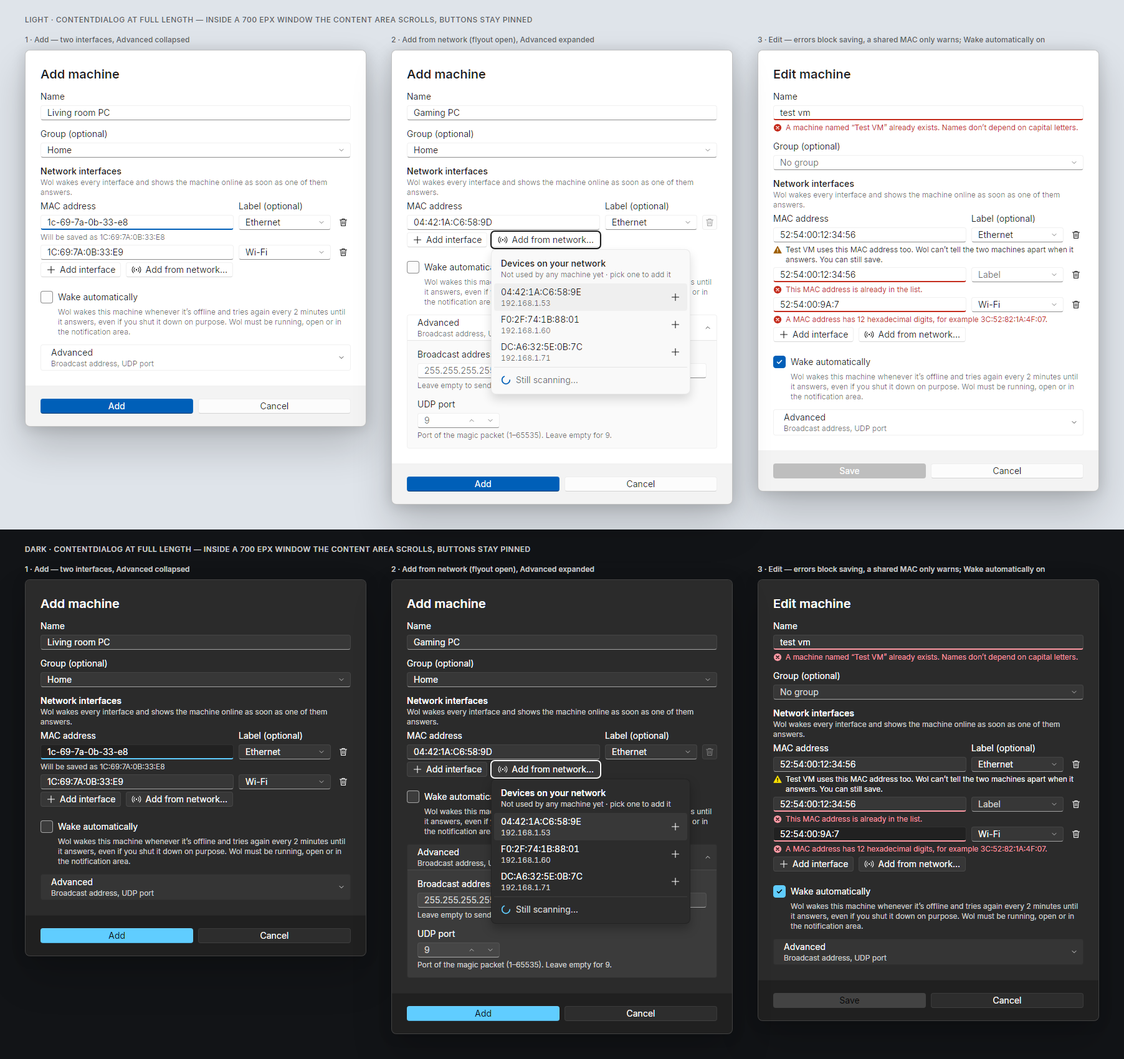
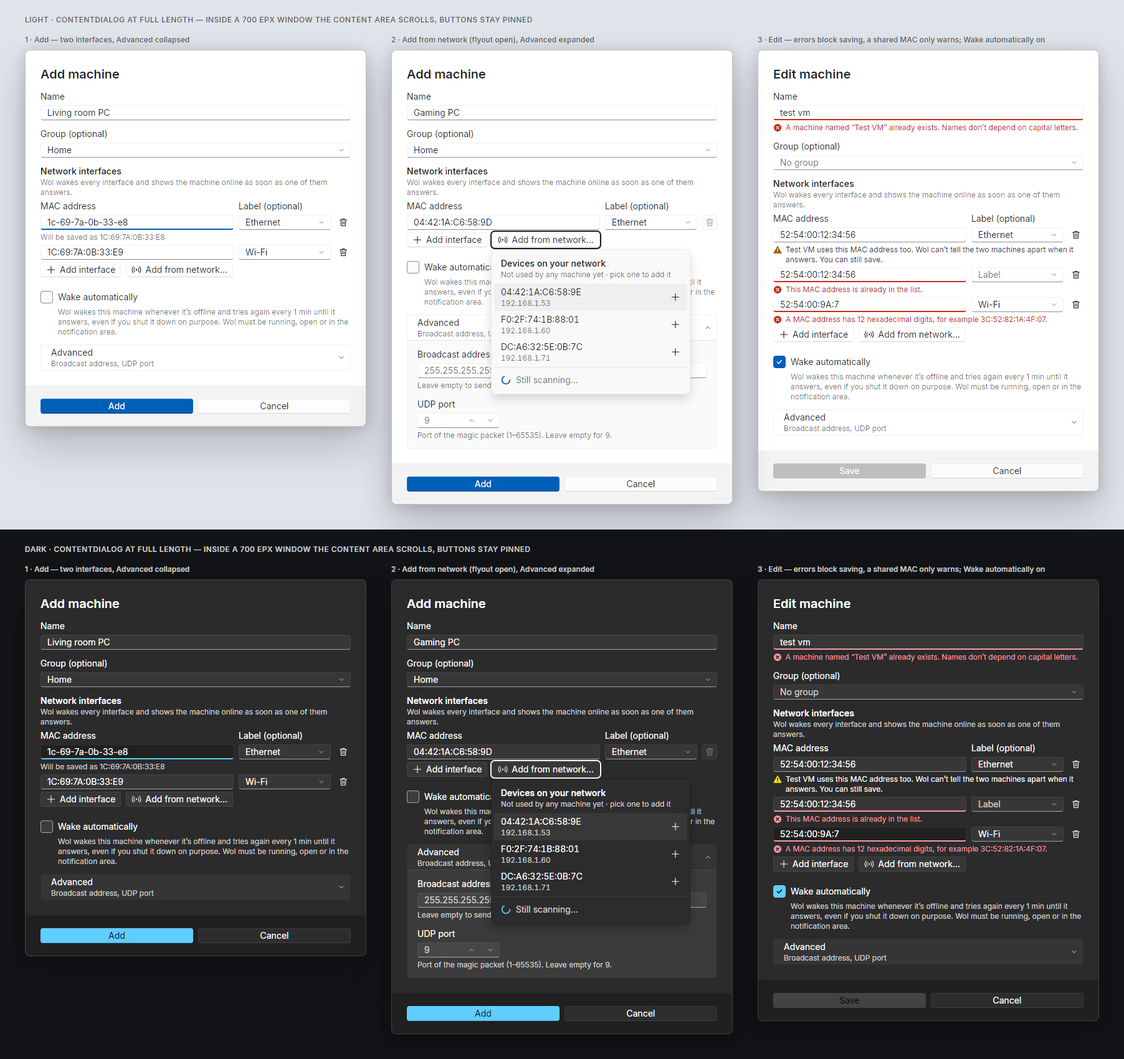
Design the shorter auto-wake retry
The design shows the retry delay of automatic wake-ups as "1 min" (it
follows the check interval) and the start of an automatic wake-up as
always shown, whatever the notification settings.

diff --git a/design/html/09-add-edit-machine.html b/design/html/09-add-edit-machine.html
@@ -48,7 +48,7 @@ a{color:#005fb8}a:hover{color:#003e92}
         </div>
         <div class="fld" style="gap: 0; margin-top: 4px">
           <label class="chk" style="min-height: 32px"><input class="sr" type="checkbox" aria-describedby="aw1-light"><span class="cb" aria-hidden="true"><svg viewbox="0 0 12 12"><path d=""></path></svg></span><span>Wake automatically</span></label>
-          <span class="help" id="aw1-light" style="padding-left: 28px">Wol wakes this machine whenever it’s offline and tries again every 2 minutes until it answers, even if you shut it down on purpose. Wol must be running, open or in the notification area.</span>
+          <span class="help" id="aw1-light" style="padding-left: 28px">Wol wakes this machine whenever it’s offline and tries again every 1 min until it answers, even if you shut it down on purpose. Wol must be running, open or in the notification area.</span>
         </div>
         <div class="exp">
           <button class="exp-h" aria-expanded="false"><span class="sc-tx"><span>Advanced</span><span class="sc-d">Broadcast address, UDP port</span></span><svg class="ic s12" viewbox="0 0 16 16" aria-hidden="true"><path d="M4 6l4 4 4-4"></path></svg></button>
@@ -89,7 +89,7 @@ a{color:#005fb8}a:hover{color:#003e92}
         </div>
         <div class="fld" style="gap: 0; margin-top: 4px">
           <label class="chk" style="min-height: 32px"><input class="sr" type="checkbox" aria-describedby="aw2-light"><span class="cb" aria-hidden="true"><svg viewbox="0 0 12 12"><path d=""></path></svg></span><span>Wake automatically</span></label>
-          <span class="help" id="aw2-light" style="padding-left: 28px">Wol wakes this machine whenever it’s offline and tries again every 2 minutes until it answers, even if you shut it down on purpose. Wol must be running, open or in the notification area.</span>
+          <span class="help" id="aw2-light" style="padding-left: 28px">Wol wakes this machine whenever it’s offline and tries again every 1 min until it answers, even if you shut it down on purpose. Wol must be running, open or in the notification area.</span>
         </div>
         <div class="exp">
           <button class="exp-h" aria-expanded="true"><span class="sc-tx"><span>Advanced</span><span class="sc-d">Broadcast address, UDP port</span></span><svg class="ic s12" viewbox="0 0 16 16" aria-hidden="true"><path d="M4 10l4-4 4 4"></path></svg></button>
@@ -164,7 +164,7 @@ a{color:#005fb8}a:hover{color:#003e92}
         </div>
         <div class="fld" style="gap: 0; margin-top: 4px">
           <label class="chk" style="min-height: 32px"><input class="sr" type="checkbox" checked aria-describedby="aw3-light"><span class="cb on" aria-hidden="true"><svg viewbox="0 0 12 12"><path d="M2.5 6.2l2.3 2.3 4.7-5"></path></svg></span><span>Wake automatically</span></label>
-          <span class="help" id="aw3-light" style="padding-left: 28px">Wol wakes this machine whenever it’s offline and tries again every 2 minutes until it answers, even if you shut it down on purpose. Wol must be running, open or in the notification area.</span>
+          <span class="help" id="aw3-light" style="padding-left: 28px">Wol wakes this machine whenever it’s offline and tries again every 1 min until it answers, even if you shut it down on purpose. Wol must be running, open or in the notification area.</span>
         </div>
         <div class="exp">
           <button class="exp-h" aria-expanded="false"><span class="sc-tx"><span>Advanced</span><span class="sc-d">Broadcast address, UDP port</span></span><svg class="ic s12" viewbox="0 0 16 16" aria-hidden="true"><path d="M4 6l4 4 4-4"></path></svg></button>
@@ -216,7 +216,7 @@ a{color:#005fb8}a:hover{color:#003e92}
         </div>
         <div class="fld" style="gap: 0; margin-top: 4px">
           <label class="chk" style="min-height: 32px"><input class="sr" type="checkbox" aria-describedby="aw1-dark"><span class="cb" aria-hidden="true"><svg viewbox="0 0 12 12"><path d=""></path></svg></span><span>Wake automatically</span></label>
-          <span class="help" id="aw1-dark" style="padding-left: 28px">Wol wakes this machine whenever it’s offline and tries again every 2 minutes until it answers, even if you shut it down on purpose. Wol must be running, open or in the notification area.</span>
+          <span class="help" id="aw1-dark" style="padding-left: 28px">Wol wakes this machine whenever it’s offline and tries again every 1 min until it answers, even if you shut it down on purpose. Wol must be running, open or in the notification area.</span>
         </div>
         <div class="exp">
           <button class="exp-h" aria-expanded="false"><span class="sc-tx"><span>Advanced</span><span class="sc-d">Broadcast address, UDP port</span></span><svg class="ic s12" viewbox="0 0 16 16" aria-hidden="true"><path d="M4 6l4 4 4-4"></path></svg></button>
@@ -257,7 +257,7 @@ a{color:#005fb8}a:hover{color:#003e92}
         </div>
         <div class="fld" style="gap: 0; margin-top: 4px">
           <label class="chk" style="min-height: 32px"><input class="sr" type="checkbox" aria-describedby="aw2-dark"><span class="cb" aria-hidden="true"><svg viewbox="0 0 12 12"><path d=""></path></svg></span><span>Wake automatically</span></label>
-          <span class="help" id="aw2-dark" style="padding-left: 28px">Wol wakes this machine whenever it’s offline and tries again every 2 minutes until it answers, even if you shut it down on purpose. Wol must be running, open or in the notification area.</span>
+          <span class="help" id="aw2-dark" style="padding-left: 28px">Wol wakes this machine whenever it’s offline and tries again every 1 min until it answers, even if you shut it down on purpose. Wol must be running, open or in the notification area.</span>
         </div>
         <div class="exp">
           <button class="exp-h" aria-expanded="true"><span class="sc-tx"><span>Advanced</span><span class="sc-d">Broadcast address, UDP port</span></span><svg class="ic s12" viewbox="0 0 16 16" aria-hidden="true"><path d="M4 10l4-4 4 4"></path></svg></button>
@@ -332,7 +332,7 @@ a{color:#005fb8}a:hover{color:#003e92}
         </div>
         <div class="fld" style="gap: 0; margin-top: 4px">
           <label class="chk" style="min-height: 32px"><input class="sr" type="checkbox" checked aria-describedby="aw3-dark"><span class="cb on" aria-hidden="true"><svg viewbox="0 0 12 12"><path d="M2.5 6.2l2.3 2.3 4.7-5"></path></svg></span><span>Wake automatically</span></label>
-          <span class="help" id="aw3-dark" style="padding-left: 28px">Wol wakes this machine whenever it’s offline and tries again every 2 minutes until it answers, even if you shut it down on purpose. Wol must be running, open or in the notification area.</span>
+          <span class="help" id="aw3-dark" style="padding-left: 28px">Wol wakes this machine whenever it’s offline and tries again every 1 min until it answers, even if you shut it down on purpose. Wol must be running, open or in the notification area.</span>
         </div>
         <div class="exp">
           <button class="exp-h" aria-expanded="false"><span class="sc-tx"><span>Advanced</span><span class="sc-d">Broadcast address, UDP port</span></span><svg class="ic s12" viewbox="0 0 16 16" aria-hidden="true"><path d="M4 6l4 4 4-4"></path></svg></button>

diff --git a/design/html/13-notification-area.html b/design/html/13-notification-area.html
@@ -100,13 +100,13 @@ a{color:#005fb8}a:hover{color:#003e92}
   <div style="display: flex; gap: 8px; align-items: flex-start">
     <div role="status" style="width: 364px; box-sizing: border-box; padding: 12px 16px 16px; border-radius: 8px; background: var(--flyout); border: 1px solid var(--flyout-stroke); box-shadow: 0 8px 16px rgba(0,0,0,.14); display: flex; flex-direction: column; gap: 8px; flex: none">
       <div style="display: flex; align-items: center; gap: 8px; font-size: 12px; line-height: 16px"><svg width="16" height="16" viewbox="0 0 16 16" aria-hidden="true"><rect x="0.5" y="0.5" width="15" height="15" rx="3.5" fill="#0067c0"></rect><path d="M8 3.6v4.1M5.3 5.3a3.8 3.8 0 1 0 5.4 0" fill="none" stroke="#fff" stroke-width="1.5" stroke-linecap="round"></path></svg><span>Wol</span></div>
-      <div style="display: flex; flex-direction: column"><span style="font-weight: 600">Waking Backup server automatically</span><span style="color: var(--text2)">It’s offline. Wol tries again every 2 minutes until it answers.</span></div>
+      <div style="display: flex; flex-direction: column"><span style="font-weight: 600">Waking Backup server automatically</span><span style="color: var(--text2)">It’s offline. Wol tries again every 1 min until it answers.</span></div>
     </div>
     <div role="status" style="width: 364px; box-sizing: border-box; padding: 12px 16px 16px; border-radius: 8px; background: var(--flyout); border: 1px solid var(--flyout-stroke); box-shadow: 0 8px 16px rgba(0,0,0,.14); display: flex; flex-direction: column; gap: 8px; flex: none">
       <div style="display: flex; align-items: center; gap: 8px; font-size: 12px; line-height: 16px"><svg width="16" height="16" viewbox="0 0 16 16" aria-hidden="true"><rect x="0.5" y="0.5" width="15" height="15" rx="3.5" fill="#0067c0"></rect><path d="M8 3.6v4.1M5.3 5.3a3.8 3.8 0 1 0 5.4 0" fill="none" stroke="#fff" stroke-width="1.5" stroke-linecap="round"></path></svg><span>Wol</span></div>
-      <div style="display: flex; flex-direction: column"><span style="font-weight: 600">Backup server is still offline</span><span style="color: var(--text2)">No reply after 2 min. Wol keeps trying every 2 minutes.</span></div>
+      <div style="display: flex; flex-direction: column"><span style="font-weight: 600">Backup server is still offline</span><span style="color: var(--text2)">No reply after 2 min. Wol keeps trying every 1 min.</span></div>
     </div>
-    <span class="help" style="padding-left: 8px">Once it answers: “Backup server is online”, “Woken automatically after 1 min 12 s.” Each balloon follows its Notifications setting — Goes offline, Doesn’t wake up, Comes online. Retries notify nothing.</span>
+    <span class="help" style="padding-left: 8px">Once it answers: “Backup server is online”, “Woken automatically after 1 min 12 s.” The first balloon shows whenever Notifications is on; the others follow their setting — Doesn’t wake up, Comes online. Retries notify nothing.</span>
   </div>
 </div>
 </div>
@@ -199,13 +199,13 @@ a{color:#005fb8}a:hover{color:#003e92}
   <div style="display: flex; gap: 8px; align-items: flex-start">
     <div role="status" style="width: 364px; box-sizing: border-box; padding: 12px 16px 16px; border-radius: 8px; background: var(--flyout); border: 1px solid var(--flyout-stroke); box-shadow: 0 8px 16px rgba(0,0,0,.14); display: flex; flex-direction: column; gap: 8px; flex: none">
       <div style="display: flex; align-items: center; gap: 8px; font-size: 12px; line-height: 16px"><svg width="16" height="16" viewbox="0 0 16 16" aria-hidden="true"><rect x="0.5" y="0.5" width="15" height="15" rx="3.5" fill="#0067c0"></rect><path d="M8 3.6v4.1M5.3 5.3a3.8 3.8 0 1 0 5.4 0" fill="none" stroke="#fff" stroke-width="1.5" stroke-linecap="round"></path></svg><span>Wol</span></div>
-      <div style="display: flex; flex-direction: column"><span style="font-weight: 600">Waking Backup server automatically</span><span style="color: var(--text2)">It’s offline. Wol tries again every 2 minutes until it answers.</span></div>
+      <div style="display: flex; flex-direction: column"><span style="font-weight: 600">Waking Backup server automatically</span><span style="color: var(--text2)">It’s offline. Wol tries again every 1 min until it answers.</span></div>
     </div>
     <div role="status" style="width: 364px; box-sizing: border-box; padding: 12px 16px 16px; border-radius: 8px; background: var(--flyout); border: 1px solid var(--flyout-stroke); box-shadow: 0 8px 16px rgba(0,0,0,.14); display: flex; flex-direction: column; gap: 8px; flex: none">
       <div style="display: flex; align-items: center; gap: 8px; font-size: 12px; line-height: 16px"><svg width="16" height="16" viewbox="0 0 16 16" aria-hidden="true"><rect x="0.5" y="0.5" width="15" height="15" rx="3.5" fill="#0067c0"></rect><path d="M8 3.6v4.1M5.3 5.3a3.8 3.8 0 1 0 5.4 0" fill="none" stroke="#fff" stroke-width="1.5" stroke-linecap="round"></path></svg><span>Wol</span></div>
-      <div style="display: flex; flex-direction: column"><span style="font-weight: 600">Backup server is still offline</span><span style="color: var(--text2)">No reply after 2 min. Wol keeps trying every 2 minutes.</span></div>
+      <div style="display: flex; flex-direction: column"><span style="font-weight: 600">Backup server is still offline</span><span style="color: var(--text2)">No reply after 2 min. Wol keeps trying every 1 min.</span></div>
     </div>
-    <span class="help" style="padding-left: 8px">Once it answers: “Backup server is online”, “Woken automatically after 1 min 12 s.” Each balloon follows its Notifications setting — Goes offline, Doesn’t wake up, Comes online. Retries notify nothing.</span>
+    <span class="help" style="padding-left: 8px">Once it answers: “Backup server is online”, “Woken automatically after 1 min 12 s.” The first balloon shows whenever Notifications is on; the others follow their setting — Doesn’t wake up, Comes online. Retries notify nothing.</span>
   </div>
 </div>
 </div>

diff --git a/design/html/18-spec-layout.html b/design/html/18-spec-layout.html
@@ -180,7 +180,7 @@ a{color:#005fb8}a:hover{color:#003e92}
           
           <tr><td>Group or selection</td><td><span class="code">InfoBar + ProgressBar</span></td><td>IsClosable false while running, Severity Informational, Content = ProgressBar (Maximum = machines in the run, Value = online). ActionButton Cancel. Replaced by the result InfoBar with “Retry n machines”.</td></tr>
           
-          <tr><td>Waking automatically</td><td><span class="code">InfoBar</span></td><td>One bar per machine, updated in place: Informational “Waking … automatically” (stays) → Success “… is online”, “Woken automatically after …” (auto-close after 5 s) or, once after the wake timeout, Warning “… is still offline” (stays until closed or the machine answers). Error “Couldn’t wake … automatically” when sending fails, once per offline period. No action buttons. Each follows its Notifications setting (Goes offline, Comes online, Doesn’t wake up); the error always shows. Turning the option off closes the bar.</td></tr>
+          <tr><td>Waking automatically</td><td><span class="code">InfoBar</span></td><td>One bar per machine, updated in place: Informational “Waking … automatically” (stays) → Success “… is online”, “Woken automatically after …” (auto-close after 5 s) or, once after the wake timeout, Warning “… is still offline” (stays until closed or the machine answers). Error “Couldn’t wake … automatically” when sending fails, once per offline period. No action buttons. The start and the error always show; “… is online” and “… is still offline” follow their Notifications setting (Comes online, Doesn’t wake up). Turning the option off closes the bar.</td></tr>
           
           <tr><td>Notification host</td><td><span class="code">StackPanel</span></td><td>Bottom-aligned in the content grid, margins 36 / 32 / 16, Spacing 4, at most 3 bars (InfoBar MinHeight 40), ChildrenTransitions: EntranceThemeTransition + RepositionThemeTransition.</td></tr>
           
@@ -202,7 +202,7 @@ a{color:#005fb8}a:hover{color:#003e92}
           
           <tr><td>Monitoring</td><td><span class="code">SettingsCard + NumberBox</span></td><td>Check interval 1–3600 s (default 10, passed to wol watch --interval), Wake timeout 30–900 s (default 120). SpinButtonPlacementMode Inline, SmallChange 5, LargeChange 30, Width 132, unit TextBlock after.</td></tr>
           
-          <tr><td>Notifications</td><td><span class="code">SettingsExpander</span></td><td>Header toggle = master switch. Items: SettingsCard with CheckBox per state (Comes online, Goes offline, Doesn’t wake up, Can’t be checked); items disabled when the master is off. They also gate the Wake automatically notifications.</td></tr>
+          <tr><td>Notifications</td><td><span class="code">SettingsExpander</span></td><td>Header toggle = master switch. Items: SettingsCard with CheckBox per state (Comes online, Goes offline, Doesn’t wake up, Can’t be checked); items disabled when the master is off. They also gate the Wake automatically notifications, except its start.</td></tr>
           
           <tr><td>About</td><td><span class="code">SettingsExpander</span></td><td>Header: app icon, “Wol”, version, Copy button. Items: Author (header “Sébastien Faut”, Description “Author”, HyperlinkButton mailto:sebastien.faut@gmail.com — name and address are not localized), Companion CLI (version, path, status glyph + label, Check again), Configuration file (path, Open file location), HyperlinkButtons.</td></tr>
           
@@ -220,7 +220,7 @@ a{color:#005fb8}a:hover{color:#003e92}
           
           <tr><td>Menu</td><td><span class="code">MenuFlyout</span></td><td>Open Wol (default item, bold), separator, MenuFlyoutSubItem Wake ▸ group ▸ “Wake all offline (n)” + offline machines, Refresh, separator, Quit. Machines waking automatically count as waking: listed disabled as “… — waking…”, left out of Wake all offline.</td></tr>
           
-          <tr><td>Balloons</td><td><span class="code">NOTIFYICONDATA NIF_INFO</span></td><td>Title + text only (NIIF_INFO, NIIF_WARNING for timed out). Title ≤ 63 chars, text ≤ 255. Respect the Notifications settings; skipped while the window is in the foreground — the in-window InfoBar covers it. Wake automatically: “Waking … automatically” (NIIF_INFO, replaces “… went offline”), “… is online” with “Woken automatically after …”, “… is still offline” (NIIF_WARNING). Retries notify nothing.</td></tr>
+          <tr><td>Balloons</td><td><span class="code">NOTIFYICONDATA NIF_INFO</span></td><td>Title + text only (NIIF_INFO, NIIF_WARNING for timed out). Title ≤ 63 chars, text ≤ 255. Respect the Notifications settings; skipped while the window is in the foreground — the in-window InfoBar covers it. Wake automatically: “Waking … automatically” (NIIF_INFO, replaces “… went offline”; no setting of its own, shown whenever the master switch is on), “… is online” with “Woken automatically after …”, “… is still offline” (NIIF_WARNING). Retries notify nothing.</td></tr>
           
         </tbody>
       </table>

diff --git a/design/html/10-wake-one-machine.html b/design/html/10-wake-one-machine.html
@@ -82,7 +82,7 @@ a{color:#005fb8}a:hover{color:#003e92}
     </div></div>
     <div class="bar" role="status">
       <span class="bar-ic"><svg class="st" viewbox="0 0 16 16" aria-hidden="true"><circle cx="8" cy="8" r="7" fill="var(--accent)"></circle><path d="M8 7.2v4.2" stroke="var(--on-status)" stroke-width="1.5" stroke-linecap="round"></path><circle cx="8" cy="4.9" r=".9" fill="var(--on-status)"></circle></svg></span>
-      <div class="bar-tx"><span class="bar-t">Waking Backup server automatically</span><span>It’s offline. Wol tries again every 2 minutes until it answers.</span></div>
+      <div class="bar-tx"><span class="bar-t">Waking Backup server automatically</span><span>It’s offline. Wol tries again every 1 min until it answers.</span></div>
       <button class="btn sub ico bar-x" aria-label="Close"><svg class="ic s12" viewbox="0 0 16 16" aria-hidden="true"><path d="M4 4l8 8M12 4l-8 8"></path></svg></button>
     </div>
   </div>
@@ -102,7 +102,7 @@ a{color:#005fb8}a:hover{color:#003e92}
   <div class="cap-t" style="margin-top: 8px">Timing</div>
   <p class="help" style="margin: 0; font-size: 12px">Status is polled every 2 s while waking. Elapsed time counts up (m:ss). Timeout comes from Settings › Monitoring (default 2:00). Cancel stops waiting only — the packet is already sent — and returns the row to its last checked state.</p>
   <div class="cap-t" style="margin-top: 8px">Automatic wake</div>
-  <p class="help" style="margin: 0; font-size: 12px">Wol wakes the machine by itself when it finds it offline, then every 2 minutes; the time counts from the first packet. No Wake or Cancel: the option is turned off in Edit. The InfoBar is then replaced by “… is online” or, after the wake timeout, “… is still offline”.</p>
+  <p class="help" style="margin: 0; font-size: 12px">Wol wakes the machine by itself when it finds it offline, then again at the first check 1 min or more later (every 1 min by default); the time counts from the first packet. No Wake or Cancel: the option is turned off in Edit. This InfoBar always shows, whatever the notification settings; it is then replaced by “… is online” or, after the wake timeout, “… is still offline”.</p>
 </div>
 </div>
 </div>
@@ -177,7 +177,7 @@ a{color:#005fb8}a:hover{color:#003e92}
     </div></div>
     <div class="bar" role="status">
       <span class="bar-ic"><svg class="st" viewbox="0 0 16 16" aria-hidden="true"><circle cx="8" cy="8" r="7" fill="var(--accent)"></circle><path d="M8 7.2v4.2" stroke="var(--on-status)" stroke-width="1.5" stroke-linecap="round"></path><circle cx="8" cy="4.9" r=".9" fill="var(--on-status)"></circle></svg></span>
-      <div class="bar-tx"><span class="bar-t">Waking Backup server automatically</span><span>It’s offline. Wol tries again every 2 minutes until it answers.</span></div>
+      <div class="bar-tx"><span class="bar-t">Waking Backup server automatically</span><span>It’s offline. Wol tries again every 1 min until it answers.</span></div>
       <button class="btn sub ico bar-x" aria-label="Close"><svg class="ic s12" viewbox="0 0 16 16" aria-hidden="true"><path d="M4 4l8 8M12 4l-8 8"></path></svg></button>
     </div>
   </div>
@@ -197,7 +197,7 @@ a{color:#005fb8}a:hover{color:#003e92}
   <div class="cap-t" style="margin-top: 8px">Timing</div>
   <p class="help" style="margin: 0; font-size: 12px">Status is polled every 2 s while waking. Elapsed time counts up (m:ss). Timeout comes from Settings › Monitoring (default 2:00). Cancel stops waiting only — the packet is already sent — and returns the row to its last checked state.</p>
   <div class="cap-t" style="margin-top: 8px">Automatic wake</div>
-  <p class="help" style="margin: 0; font-size: 12px">Wol wakes the machine by itself when it finds it offline, then every 2 minutes; the time counts from the first packet. No Wake or Cancel: the option is turned off in Edit. The InfoBar is then replaced by “… is online” or, after the wake timeout, “… is still offline”.</p>
+  <p class="help" style="margin: 0; font-size: 12px">Wol wakes the machine by itself when it finds it offline, then again at the first check 1 min or more later (every 1 min by default); the time counts from the first packet. No Wake or Cancel: the option is turned off in Edit. This InfoBar always shows, whatever the notification settings; it is then replaced by “… is online” or, after the wake timeout, “… is still offline”.</p>
 </div>
 </div>
 </div>

diff --git a/design/html/20-spec-ui-copy.html b/design/html/20-spec-ui-copy.html
@@ -431,7 +431,7 @@ a{color:#005fb8}a:hover{color:#003e92}
           
           <tr><td class="k" style="white-space: normal; word-break: break-all">MachineDialog.AutoWake.Content</td><td>Wake automatically<div class="help">CheckBox</div></td></tr>
           
-          <tr><td class="k" style="white-space: normal; word-break: break-all">MachineDialog.AutoWake.Description</td><td>Wol wakes this machine whenever it’s offline and tries again every 2 minutes until it answers, even if you shut it down on purpose. Wol must be running, open or in the notification area.<div class="help">Caption under the CheckBox, also its HelpText</div></td></tr>
+          <tr><td class="k" style="white-space: normal; word-break: break-all">MachineDialog.AutoWake.Description</td><td>Wol wakes this machine whenever it’s offline and tries again every {0} until it answers, even if you shut it down on purpose. Wol must be running, open or in the notification area.<div class="help">Caption under the CheckBox, also its HelpText; set from code. {0} = retry delay, as in AutoWake.Started.Message</div></td></tr>
           
           <tr><td class="k" style="white-space: normal; word-break: break-all">MachineDialog.Advanced.Header</td><td>Advanced</td></tr>
           
@@ -605,19 +605,19 @@ a{color:#005fb8}a:hover{color:#003e92}
         <thead><tr><th style="width: 46%">Key</th><th>Value</th></tr></thead>
         <tbody>
           
-          <tr><td class="k" style="white-space: normal; word-break: break-all">AutoWake.Started.Title</td><td>Waking {0} automatically<div class="help">InfoBar (Informational) and balloon (NIIF_INFO); replaces “… went offline”</div></td></tr>
-          
-          <tr><td class="k" style="white-space: normal; word-break: break-all">AutoWake.Started.Message</td><td>It’s offline. Wol tries again every 2 minutes until it answers.<div class="help">“2 minutes” is the CLI retry interval</div></td></tr>
+          <tr><td class="k" style="white-space: normal; word-break: break-all">AutoWake.Started.Title</td><td>Waking {0} automatically<div class="help">InfoBar (Informational), always shown, and balloon (NIIF_INFO) when Notifications is on; replaces “… went offline”</div></td></tr>
+
+          <tr><td class="k" style="white-space: normal; word-break: break-all">AutoWake.Started.Message</td><td>It’s offline. Wol tries again every {0} until it answers.<div class="help">{0} = retry delay, auto_wake_retry_s from wol watch, formatted like the other durations: “1 min” with the default check interval, “1 min 30 s” with 45 s. French writes “à {0} d’intervalle” in every retry-delay string, as “toutes les 1 min” is not correct French</div></td></tr>
           
           <tr><td class="k" style="white-space: normal; word-break: break-all">AutoWake.Online.Message</td><td>Woken automatically after {0}.<div class="help">Duration since the first packet; title Wake.Success.Title / Balloon.Online.Title</div></td></tr>
           
           <tr><td class="k" style="white-space: normal; word-break: break-all">AutoWake.StillOffline.Title</td><td>{0} is still offline<div class="help">InfoBar (Warning) and balloon (NIIF_WARNING), once per offline period</div></td></tr>
           
-          <tr><td class="k" style="white-space: normal; word-break: break-all">AutoWake.StillOffline.Message</td><td>No reply after {0}. Wol keeps trying every 2 minutes.<div class="help">Wake timeout from Settings</div></td></tr>
+          <tr><td class="k" style="white-space: normal; word-break: break-all">AutoWake.StillOffline.Message</td><td>No reply after {0}. Wol keeps trying every {1}.<div class="help">{0} = wake timeout from Settings, {1} = retry delay</div></td></tr>
           
           <tr><td class="k" style="white-space: normal; word-break: break-all">AutoWake.SendFailed.Title</td><td>Couldn’t wake {0} automatically<div class="help">InfoBar (Error) only</div></td></tr>
           
-          <tr><td class="k" style="white-space: normal; word-break: break-all">AutoWake.SendFailed.Message</td><td>{0} Wol tries again in 2 minutes.<div class="help">Message from the CLI</div></td></tr>
+          <tr><td class="k" style="white-space: normal; word-break: break-all">AutoWake.SendFailed.Message</td><td>{0} Wol tries again in {1}.<div class="help">{0} = message from the CLI, {1} = retry delay</div></td></tr>
           
         </tbody>
       </table>

diff --git a/design/html/16-spec-states.html b/design/html/16-spec-states.html
@@ -213,7 +213,7 @@ a{color:#005fb8}a:hover{color:#003e92}
           </div>
         </div>
         </div>
-          <p>Wol wakes the machine by itself as soon as it finds it offline, then every 2 minutes. Same Waking badge; the detail reads “Waking automatically · 1:12”, counting from the first packet of this offline period across retries (h:mm:ss after an hour). No Wake or Cancel: the option is turned off in Edit. Ends in Online, Error (network can’t be scanned, nothing is sent) or Offline (option turned off) — never Timed out.</p>
+          <p>Wol wakes the machine by itself as soon as it finds it offline, then every 1 min by default (it depends on the check interval). Same Waking badge; the detail reads “Waking automatically · 1:12”, counting from the first packet of this offline period across retries (h:mm:ss after an hour). No Wake or Cancel: the option is turned off in Edit. Ends in Online, Error (network can’t be scanned, nothing is sent) or Offline (option turned off) — never Timed out.</p>
         </div>
       </div>
     </div>

diff --git a/design/specs/layout.md b/design/specs/layout.md
@@ -84,7 +84,7 @@ Every element maps to a WinUI 3 or Windows Community Toolkit control. Measuremen
 | Row while waking | `ProgressRing` | 12 × 12 inside the Waking badge, IsIndeterminate; detail “Sending to 2 interfaces…”, then “m:ss · waiting for reply” updated every second. The packet goes to every interface of the machine. Automatic wake: “Waking automatically · m:ss”. |
 | Single result | `InfoBar` | In the notification host. Success: IsClosable, auto-close after 5 s (paused while hovered or focused). Warning (timed out): stays until closed, ActionButton Retry. |
 | Group or selection | `InfoBar + ProgressBar` | IsClosable false while running, Severity Informational, Content = ProgressBar (Maximum = machines in the run, Value = online). ActionButton Cancel. Replaced by the result InfoBar with “Retry n machines”. |
-| Waking automatically | `InfoBar` | One bar per machine, updated in place: Informational “Waking … automatically” (stays) → Success “… is online”, “Woken automatically after …” (auto-close after 5 s) or, once after the wake timeout, Warning “… is still offline” (stays until closed or the machine answers). Error “Couldn’t wake … automatically” when sending fails, once per offline period. No action buttons. Each follows its Notifications setting (Goes offline, Comes online, Doesn’t wake up); the error always shows. Turning the option off closes the bar. |
+| Waking automatically | `InfoBar` | One bar per machine, updated in place: Informational “Waking … automatically” (stays) → Success “… is online”, “Woken automatically after …” (auto-close after 5 s) or, once after the wake timeout, Warning “… is still offline” (stays until closed or the machine answers). Error “Couldn’t wake … automatically” when sending fails, once per offline period. No action buttons. The start and the error always show; “… is online” and “… is still offline” follow their Notifications setting (Comes online, Doesn’t wake up). Turning the option off closes the bar. |
 | Notification host | `StackPanel` | Bottom-aligned in the content grid, margins 36 / 32 / 16, Spacing 4, at most 3 bars (InfoBar MinHeight 40), ChildrenTransitions: EntranceThemeTransition + RepositionThemeTransition. |
 
 ## Settings
@@ -95,7 +95,7 @@ Every element maps to a WinUI 3 or Windows Community Toolkit control. Measuremen
 | Theme, Language | `SettingsCard + ComboBox` | Theme: Use system setting / Light / Dark (applies at once, sets RequestedTheme on the root). Language: Use system setting / English / Français (applies on restart; Description says so). ComboBox MinWidth 200. |
 | Behavior | `SettingsCard + ToggleSwitch` | Start with Windows (opt-in shortcut in shell:startup, off by default — no registry writes), Start minimized (off), Close to the notification area (on). |
 | Monitoring | `SettingsCard + NumberBox` | Check interval 1–3600 s (default 10, passed to wol watch --interval), Wake timeout 30–900 s (default 120). SpinButtonPlacementMode Inline, SmallChange 5, LargeChange 30, Width 132, unit TextBlock after. |
-| Notifications | `SettingsExpander` | Header toggle = master switch. Items: SettingsCard with CheckBox per state (Comes online, Goes offline, Doesn’t wake up, Can’t be checked); items disabled when the master is off. They also gate the Wake automatically notifications. |
+| Notifications | `SettingsExpander` | Header toggle = master switch. Items: SettingsCard with CheckBox per state (Comes online, Goes offline, Doesn’t wake up, Can’t be checked); items disabled when the master is off. They also gate the Wake automatically notifications, except its start. |
 | About | `SettingsExpander` | Header: app icon, “Wol”, version, Copy button. Items: Author (header “Sébastien Faut”, Description “Author”, HyperlinkButton mailto:sebastien.faut@gmail.com — name and address are not localized), Companion CLI (version, path, status glyph + label, Check again), Configuration file (path, Open file location), HyperlinkButtons. |
 
 ## Notification area
@@ -104,7 +104,7 @@ Every element maps to a WinUI 3 or Windows Community Toolkit control. Measuremen
 | --- | --- | --- |
 | Icon | `Shell_NotifyIcon (Win32)` | Not a XAML control: hosted through a notify-icon helper. 16 × 16 monochrome .ico per status and taskbar theme; tooltip states the status in words (max 127 chars). |
 | Menu | `MenuFlyout` | Open Wol (default item, bold), separator, MenuFlyoutSubItem Wake ▸ group ▸ “Wake all offline (n)” + offline machines, Refresh, separator, Quit. Machines waking automatically count as waking: listed disabled as “… — waking…”, left out of Wake all offline. |
-| Balloons | `NOTIFYICONDATA NIF_INFO` | Title + text only (NIIF_INFO, NIIF_WARNING for timed out). Title ≤ 63 chars, text ≤ 255. Respect the Notifications settings; skipped while the window is in the foreground — the in-window InfoBar covers it. Wake automatically: “Waking … automatically” (NIIF_INFO, replaces “… went offline”), “… is online” with “Woken automatically after …”, “… is still offline” (NIIF_WARNING). Retries notify nothing. |
+| Balloons | `NOTIFYICONDATA NIF_INFO` | Title + text only (NIIF_INFO, NIIF_WARNING for timed out). Title ≤ 63 chars, text ≤ 255. Respect the Notifications settings; skipped while the window is in the foreground — the in-window InfoBar covers it. Wake automatically: “Waking … automatically” (NIIF_INFO, replaces “… went offline”; no setting of its own, shown whenever the master switch is on), “… is online” with “Woken automatically after …”, “… is still offline” (NIIF_WARNING). Retries notify nothing. |
 
 ## Errors and degraded states
 

diff --git a/design/specs/interaction.md b/design/specs/interaction.md
@@ -80,19 +80,19 @@ No custom storyboards. When Windows “Animation effects” is off, these transi
 Turned on per machine with the Wake automatically CheckBox in Add / Edit, saved with Add / Save (`wol add --auto-wake`, `wol edit --auto-wake` / `--no-auto-wake`); Duplicate copies it. The packets are sent by `wol watch`, so Wol wakes machines only while it runs, open or in the notification area; Quit stops it.
 
 - **Start**: an `auto_wake` event with `attempt` 1 — in the first scan, or once leaving Online is confirmed by 2 scans. The row turns Waking, detail “Waking automatically · 0:00”, counting from that event’s `checked_at`.
-- **Retries**: `auto_wake` events with `attempt` 2 and more, every 2 minutes (never more often than the check interval). The row keeps counting; nothing is notified.
+- **Retries**: `auto_wake` events with `attempt` 2 and more, every `auto_wake_retry_s` seconds (given by the `snapshot` event). Retries happen at checks, so this delay is the smallest multiple of the check interval that is at least 1 minute: 1 min with the default 10 s, 1 min 30 s with 45 s, 1 min 3 s with 7 s, the interval itself from 60 s. The messages below show it, formatted like the other durations. The row keeps counting; nothing is notified.
 - **End**: Online (`state_changed` to online) — the row shows Online. Error — the row shows Error and nothing is sent; when scanning works again and the machine is still offline, Waking automatically resumes with the same count. Option turned off (a `snapshot` with `auto_wake` false) — the row goes back to Offline and its bar closes.
 - **While waking automatically**: no Wake or Cancel on the row; the row menu’s Wake is disabled; Ctrl+W, Wake group, Wake on a selection and the tray’s Wake all offline skip the machine. The status summary, the state filter and the tray menu count it as waking; the group InfoBadge does not count it. Edit stays available.
 
 | Moment | In the window (`InfoBar`) | Balloon (window not in front) | Setting |
 | --- | --- | --- | --- |
-| First packet sent (`attempt` 1) | Informational “Waking Backup server automatically” — “It’s offline. Wol tries again every 2 minutes until it answers.” Stays. | NIIF_INFO, same text, instead of “… went offline” | Goes offline |
+| First packet sent (`attempt` 1) | Informational “Waking Backup server automatically” — “It’s offline. Wol tries again every 1 min until it answers.” Stays. | NIIF_INFO, same text, instead of “… went offline” | Always shown (balloon: Notifications on) |
 | Comes online | The bar (or a new one) turns Success: “Backup server is online” — “Woken automatically after 1 min 12 s.” Auto-closes after 5 s. | NIIF_INFO, same text | Comes online |
-| Still offline after the wake timeout, once per offline period | The bar turns Warning: “Backup server is still offline” — “No reply after 2 min. Wol keeps trying every 2 minutes.” Stays until closed or the machine answers. | NIIF_WARNING, same text | Doesn’t wake up |
-| Sending fails (`status: "failed"`), once per offline period | Error “Couldn’t wake Backup server automatically” — CLI message + “Wol tries again in 2 minutes.” | None | Always shown |
+| Still offline after the wake timeout, once per offline period | The bar turns Warning: “Backup server is still offline” — “No reply after 2 min. Wol keeps trying every 1 min.” Stays until closed or the machine answers. | NIIF_WARNING, same text | Doesn’t wake up |
+| Sending fails (`status: "failed"`), once per offline period | Error “Couldn’t wake Backup server automatically” — CLI message + “Wol tries again in 1 min.” | None | Always shown |
 | Later attempts | Nothing | Nothing | — |
 
-One bar per machine, updated in place, no action buttons; beyond 3 bars the host shows “+n more” as usual. With the Notifications master switch off, only the error shows.
+One bar per machine, updated in place, no action buttons; beyond 3 bars the host shows “+n more” as usual. With the Notifications master switch off, the start and the error bars still show in the window, and no balloon is shown.
 
 ## Screen reader
 

diff --git a/design/README.md b/design/README.md
@@ -22,7 +22,7 @@ Everything here is exported from the Claude Design canvas “Wol — WinUI 3 des
 - **Add / Edit machine:** `ContentDialog`, because the form stays short and the list stays in view. Name and group come first, then the network interfaces — one row per interface with its MAC address, an optional label (Ethernet, Wi-Fi or free text) and a remove button — with **Add interface** and **Add from network…** (devices found on the network that no machine uses yet). Broadcast address and UDP port sit in a collapsed `Expander`.
 - **Validation:** an invalid MAC, a MAC repeated within the machine and a duplicate name (regardless of case) block saving; a MAC already used by another machine is only a warning that names it.
 - **Wake button:** accent when the machine is Offline or Timed out (labelled Retry after a timeout), standard when Unknown, disabled in Error, hidden when Online, replaced by Cancel while Waking. Waking sends the packet to every interface.
-- **Wake automatically:** a per-machine option, a CheckBox (it applies on Save) after the network interfaces in Add / Edit; its description says Wol also wakes a machine shut down on purpose, and only while Wol runs. A loop glyph (U+E8EE RepeatAll, secondary text colour) after the name marks these machines, before the shared MAC warning. When `wol watch` finds one offline, the row shows Waking, “Waking automatically · 1:12”, with no Wake or Cancel. One InfoBar per machine, and a balloon when the window is not in front, reports the start, the result and, once, a machine still offline after the wake timeout; retries notify nothing. The existing Notifications settings gate them, so Settings and the tray menu gain nothing.
+- **Wake automatically:** a per-machine option, a CheckBox (it applies on Save) after the network interfaces in Add / Edit; its description says Wol also wakes a machine shut down on purpose, and only while Wol runs. A loop glyph (U+E8EE RepeatAll, secondary text colour) after the name marks these machines, before the shared MAC warning. When `wol watch` finds one offline, the row shows Waking, “Waking automatically · 1:12”, with no Wake or Cancel. One InfoBar per machine, and a balloon when the window is not in front, reports the start, the result and, once, a machine still offline after the wake timeout; retries notify nothing. The start always shows in the window, and as a balloon whenever the Notifications master switch is on; the other messages follow the existing Notifications settings, so Settings and the tray menu gain nothing.
 - **Group InfoBadge:** counts Offline + Timed out machines, in the default (accent) style for contrast.
 - **Feedback in the window:** a stack of InfoBars at the bottom of the content area; success closes after 5 s, warnings stay. Waking a group or a selection shows an InfoBar with a ProgressBar (“3 of 5 online”) and ends with Retry for the machines that timed out.
 - **Degraded states:** one InfoBar at the top of the page, with precedence CLI missing → CLI incompatible → configuration invalid → no local network to scan. Without a network to scan, every machine shows Error and Wake is disabled.

diff --git a/design/specs/ui-copy.md b/design/specs/ui-copy.md
@@ -233,7 +233,7 @@ Every string shown in the mockups, keyed for `Strings/en-US/Resources.resw`. `{0
 | `Discovery.Empty` | No new devices found |  |
 | `Discovery.Item.Name` | {0}, {1} | MAC address, current IP |
 | `MachineDialog.AutoWake.Content` | Wake automatically | CheckBox |
-| `MachineDialog.AutoWake.Description` | Wol wakes this machine whenever it’s offline and tries again every 2 minutes until it answers, even if you shut it down on purpose. Wol must be running, open or in the notification area. | Caption under the CheckBox, also its HelpText |
+| `MachineDialog.AutoWake.Description` | Wol wakes this machine whenever it’s offline and tries again every {0} until it answers, even if you shut it down on purpose. Wol must be running, open or in the notification area. | Caption under the CheckBox, also its HelpText; set from code. {0} = retry delay, as in `AutoWake.Started.Message` |
 | `MachineDialog.Advanced.Header` | Advanced |  |
 | `MachineDialog.Advanced.Description` | Broadcast address, UDP port |  |
 | `MachineDialog.Broadcast.Header` | Broadcast address |  |
@@ -320,13 +320,13 @@ Every string shown in the mockups, keyed for `Strings/en-US/Resources.resw`. `{0
 
 | Key | Value | Note |
 | --- | --- | --- |
-| `AutoWake.Started.Title` | Waking {0} automatically | InfoBar (Informational) and balloon (NIIF_INFO); replaces “… went offline” |
-| `AutoWake.Started.Message` | It’s offline. Wol tries again every 2 minutes until it answers. | “2 minutes” is the CLI retry interval |
+| `AutoWake.Started.Title` | Waking {0} automatically | InfoBar (Informational), always shown, and balloon (NIIF_INFO) when Notifications is on; replaces “… went offline” |
+| `AutoWake.Started.Message` | It’s offline. Wol tries again every {0} until it answers. | {0} = retry delay, `auto_wake_retry_s` from `wol watch`, formatted like the other durations: “1 min” with the default check interval, “1 min 30 s” with 45 s. French writes “à {0} d’intervalle” in every retry-delay string, as “toutes les 1 min” is not correct French |
 | `AutoWake.Online.Message` | Woken automatically after {0}. | Duration since the first packet; title `Wake.Success.Title` / `Balloon.Online.Title` |
 | `AutoWake.StillOffline.Title` | {0} is still offline | InfoBar (Warning) and balloon (NIIF_WARNING), once per offline period |
-| `AutoWake.StillOffline.Message` | No reply after {0}. Wol keeps trying every 2 minutes. | Wake timeout from Settings |
+| `AutoWake.StillOffline.Message` | No reply after {0}. Wol keeps trying every {1}. | {0} = wake timeout from Settings, {1} = retry delay |
 | `AutoWake.SendFailed.Title` | Couldn’t wake {0} automatically | InfoBar (Error) only |
-| `AutoWake.SendFailed.Message` | {0} Wol tries again in 2 minutes. | Message from the CLI |
+| `AutoWake.SendFailed.Message` | {0} Wol tries again in {1}. | {0} = message from the CLI, {1} = retry delay |
 
 ## Errors and degraded states
 

diff --git a/design/brief.md b/design/brief.md
@@ -52,9 +52,10 @@ A **machine** has:
 - **Broadcast address** and **UDP port** for the magic packet (optional, advanced)
 - **Wake automatically** (optional, off by default): to keep a machine on (a server, a NAS).
   While Wol runs, including from the notification area, the machine is woken whenever it is
-  found offline: at once, then again every 2 minutes until it answers. A machine shut down on
-  purpose is started again, so the UI must make this clear. Nothing is sent while the local
-  network cannot be scanned.
+  found offline: at once, then again every minute until it answers (at the first check a
+  minute or more after the previous attempt, so longer check intervals space the attempts
+  further; the UI states the actual delay). A machine shut down on purpose is started again,
+  so the UI must make this clear. Nothing is sent while the local network cannot be scanned.
 
 Wol works on the **local network only**. It finds machines by scanning the network for their MAC
 addresses, which also gives their current IP address even when DHCP changes it. **Wake** sends the
@@ -119,7 +120,7 @@ States, each needing a distinct, colour-blind-safe indicator (icon + label, colo
      Retry for the ones that timed out.
    - Automatic wake-up of a machine found offline: started, online ("woken automatically after
      48 s"), still no reply after the wake timeout (Wol keeps trying), packet not sent. The
-     retries every 2 minutes are not notified.
+     start is always shown, whatever the notification settings; the retries are not notified.
    - Show how this appears both in the rows and as a transient notification inside the window.
 
 5. **Settings** (Windows 11 Settings style, `SettingsCard` / `SettingsExpander`)

diff --git a/design/specs/states.md b/design/specs/states.md
@@ -23,7 +23,7 @@ A machine with Wake automatically on shows a loop glyph (U+E8EE RepeatAll, 16 ep
 
 ## Waking automatically
 
-Wol wakes the machine by itself as soon as it finds it offline, then every 2 minutes. Same Waking badge; the detail reads “Waking automatically · 1:12”, counting from the first packet of this offline period across retries (h:mm:ss after an hour). No Wake or Cancel: the option is turned off in Edit. Ends in Online, Error (network can’t be scanned, nothing is sent) or Offline (option turned off) — never Timed out.
+Wol wakes the machine by itself as soon as it finds it offline, then every 1 min by default (it depends on the check interval). Same Waking badge; the detail reads “Waking automatically · 1:12”, counting from the first packet of this offline period across retries (h:mm:ss after an hour). No Wake or Cancel: the option is turned off in Edit. Ends in Online, Error (network can’t be scanned, nothing is sent) or Offline (option turned off) — never Timed out.
 
 ## How to build it
 
